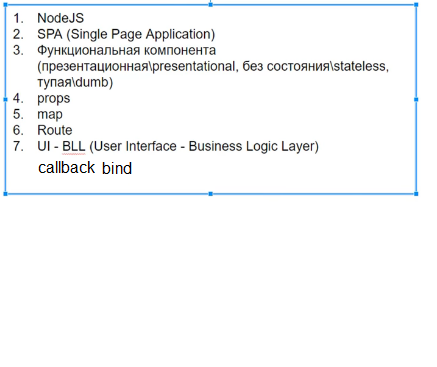
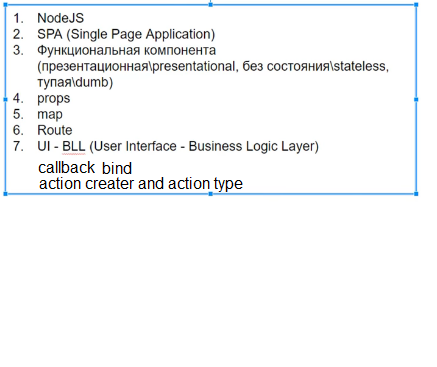
L39

Changed region(s): [[0.0892, 0.4796, 0.5652, 0.5395]]

diff --git a/src/redux/state.js b/src/redux/state.js
@@ -1,3 +1,7 @@
+const ADD_POST = 'ADD-POST'
+const UPDATE_NEW_POST_TEXT = 'UPDATE-NEW-POST-TEXT'
+const ADD_MESSAGE = 'ADD-MESSAGE'
+const UPDATE_NEW_MESSAGE_TEXT = 'UPDATE-NEW-MESSAGE-TEXT'
 let store = {
     _state: {
         profilePage: {
@@ -90,38 +94,46 @@ let store = {
     },
 
     getState() {
-        return this._state;
+        return this._state
     },
     subscribe(obsserver) {
         this._callSubscriber = obsserver
     },
     dispatch(action) {
-        if (action.type === 'UPDATE-NEW-POST-TEXT') {
-            this._state.profilePage.newPostText = action.newText;
-            this._callSubscriber(this._state);
-        } else if (action.type === 'ADD-POST') {
+        if (action.type === UPDATE_NEW_POST_TEXT) {
+            this._state.profilePage.newPostText = action.newText
+            this._callSubscriber(this._state)
+        } else if (action.type === ADD_POST) {
             let newPost = {
                 id: 5,
                 text: this._state.profilePage.newPostText,
                 like: 10,
             }
-            this._state.profilePage.posts.push(newPost);
-            this._state.profilePage.newPostText = '';
-            this._callSubscriber(this._state);
+            this._state.profilePage.posts.push(newPost)
+            this._state.profilePage.newPostText = ''
+            this._callSubscriber(this._state)
 
-        } else if (action.type === 'ADD-MESSAGE') {
+        } else if (action.type === ADD_MESSAGE) {
             let newMessage = {
                 id: 55,
                 message: this._state.dialogsPage.newMessageText,
-            };
-            this._state.dialogsPage.messages.push(newMessage);
+            }
+            this._state.dialogsPage.messages.push(newMessage)
             this._state.dialogsPage.newMessageText = ''
-            this._callSubscriber(this._state);
-        } else if (action.type === 'UPDATE-NEW-MESSAGE-TEXT') {
-            this._state.dialogsPage.newMessageText = action.newText;
-            this._callSubscriber(this._state);
+            this._callSubscriber(this._state)
+        } else if (action.type === UPDATE_NEW_MESSAGE_TEXT) {
+            this._state.dialogsPage.newMessageText = action.newText
+            this._callSubscriber(this._state)
         }
     }
 
-};
-export default store;
+}
+export const addPostActionCreater = () => ({type: ADD_POST})
+export const updateNewPostTextActionCreator = (text) => ({
+    type: UPDATE_NEW_POST_TEXT, newText: text
+})
+export const addMessageActionCreator = () => ({type: ADD_MESSAGE})
+export const updateNewMessageTextActionCreator = (textMessage) =>({//updateNewMessageTextActionCreator why yellow????????
+    type: UPDATE_NEW_MESSAGE_TEXT, newText: textMessage
+})
+export default store

diff --git a/src/components/Profile/MyPosts/MyPosts.jsx b/src/components/Profile/MyPosts/MyPosts.jsx
@@ -1,6 +1,9 @@
 import React from "react";
 import classes from "./MyPost.module.css";
 import Post from "./Post/Post";
+import {addPostActionCreater, updateNewPostTextActionCreator} from "../../../redux/state";
+
+
 
 const MyPosts = props => {
     let postsElements = props.posts.map(p => {
@@ -9,12 +12,11 @@ const MyPosts = props => {
     let newPostElement = React.createRef();
 
     let addPost = () => {
-        props.dispatch({type: 'ADD-POST'})
-        //let text = newPostElement.current.value='';
+        props.dispatch(addPostActionCreater())
     };
     let onPostChange = () => {
         let text = newPostElement.current.value;
-        let action = {type: 'UPDATE-NEW-POST-TEXT', newText: text};
+        let action = updateNewPostTextActionCreator(text);
         props.dispatch(action);
     };
     return (

diff --git a/src/components/Dialogs/Dialogs.jsx b/src/components/Dialogs/Dialogs.jsx
@@ -2,6 +2,8 @@ import React from "react";
 import DialogItem from "./DialogItem/DialogItem";
 import style from "./Dialogs.module.css";
 import Messages from "./Message/Message";
+import {addMessageActionCreator, updateNewMessageTextActionCreator} from "../../redux/state";
+
 
 const Dialogs = props => {
   let dialogsElements = props.dPage.dialogs.map(d => {
@@ -17,12 +19,12 @@ const Dialogs = props => {
   let textRef = React.createRef();
 
   let addMessage = () => {
-    props.dispatch({type:'ADD-MESSAGE'})
+    props.dispatch(addMessageActionCreator())
   };
 
   let onMessageChange = () => {
     let textMessage = textRef.current.value;
-    props.dispatch({type:'UPDATE-NEW-MESSAGE-TEXT',newText:textMessage});
+    props.dispatch(updateNewMessageTextActionCreator(textMessage));
   };
 
   return (
